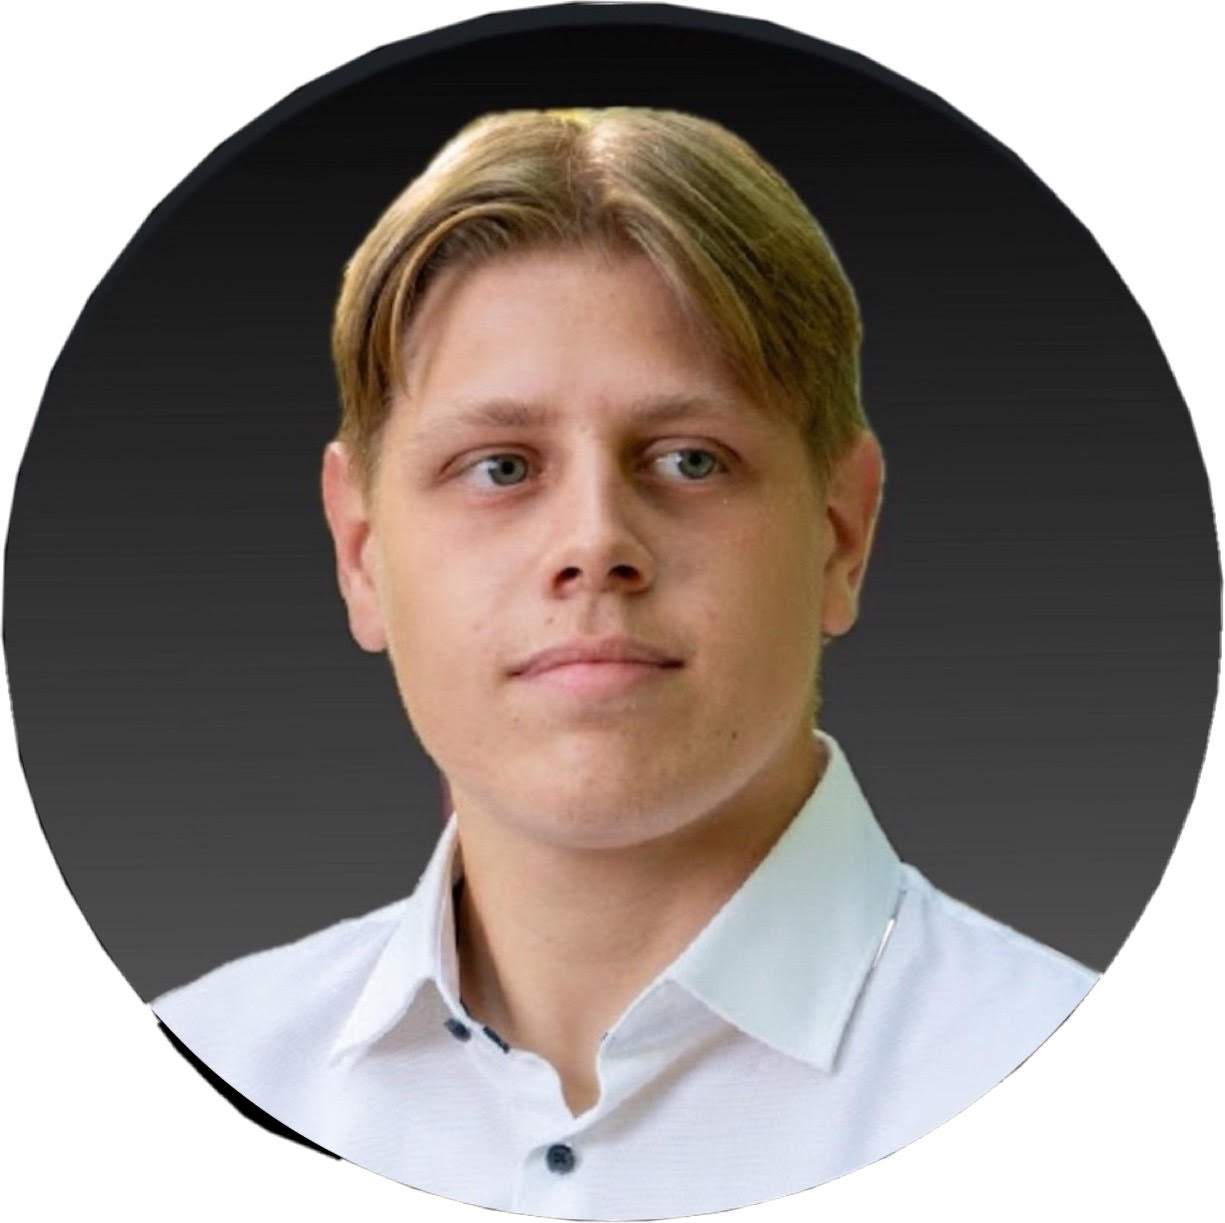
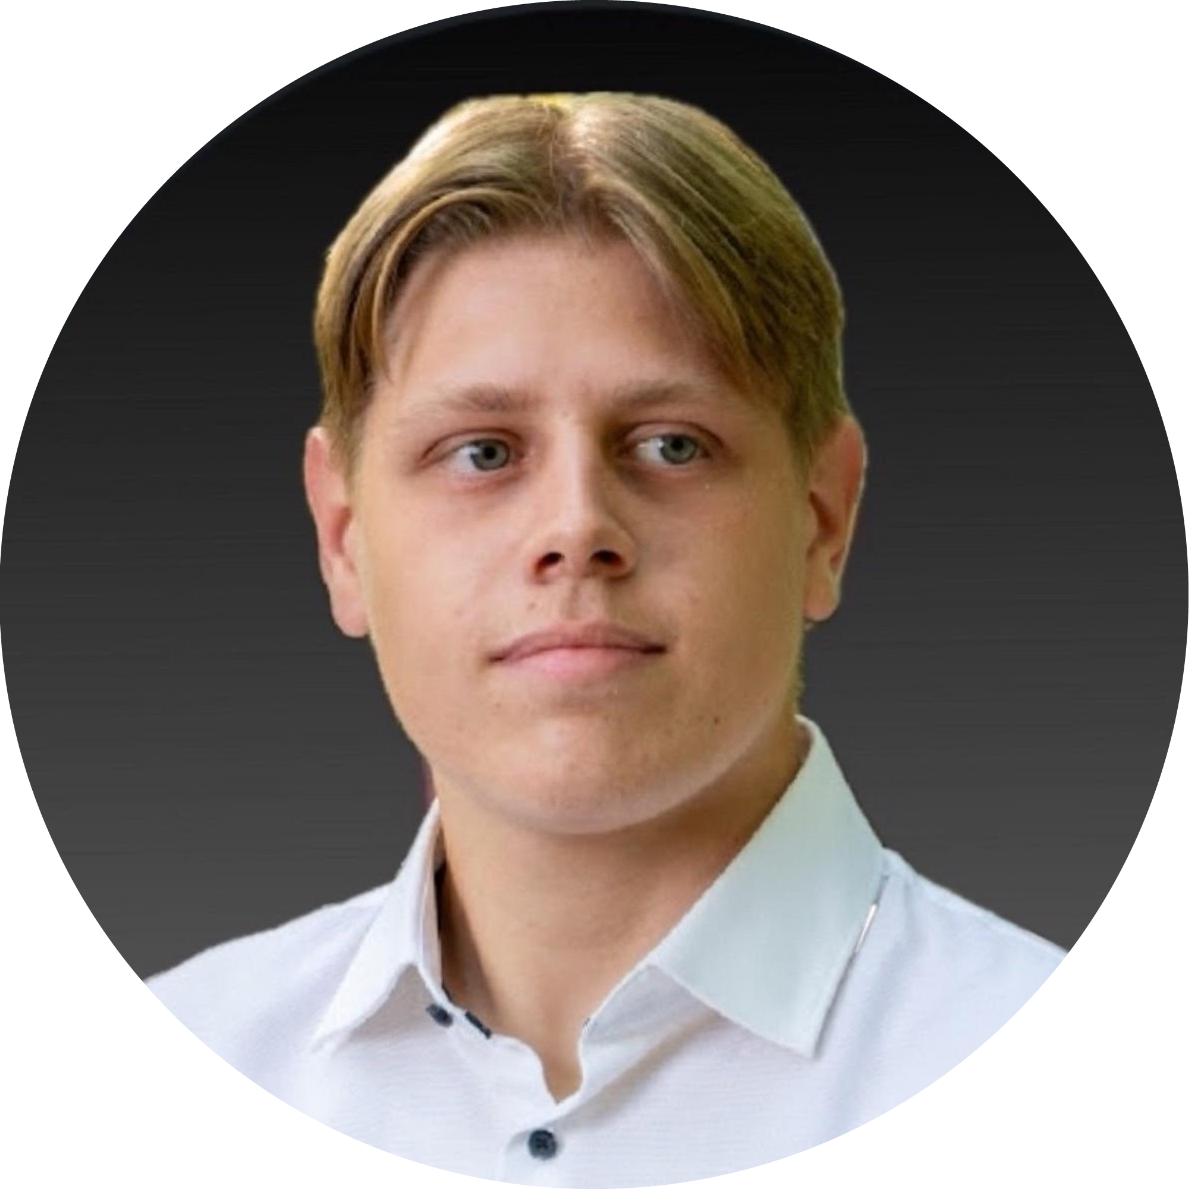
Add files via upload

diff --git a/src/app/views/projects-view/projects-view.component.scss b/src/app/views/projects-view/projects-view.component.scss
@@ -22,13 +22,16 @@
   padding: 40px 20px;
   background: var(--second-color);
   color: #fff;
-  max-width: 480px;
+  max-width: 500px;
   margin: 16px;
   text-align: center;
 }
 
 .box img {
-  height: 120px;
+  height: 170px;
+  width: 280px;
+  border: 3px solid var(--main-color);
+  border-radius: 8%;
 }
 
 .box h1 {
@@ -38,7 +41,7 @@
 
 .box p {
   margin-top: 1.2rem;
-  margin-bottom: 3rem;
+  margin-bottom: 4rem;
   font-size: 1rem;
   font-weight: 300;
 }
@@ -50,9 +53,9 @@
 
 .services-content a {
   position: absolute;
-  bottom: 1.8rem;
+  bottom: 1.75rem;
   left: 115px;
-  padding: 6px 10px;
+  padding: 11px 20px;
   font-size: 0.9rem;
   background: rgb(188, 17, 17);
   color: #fff;

diff --git a/src/index.html b/src/index.html
@@ -2,10 +2,10 @@
 <html lang="en">
 <head>
   <meta charset="utf-8">
-  <title>Nikolay's Site</title>
+  <title>NTodorov.com</title>
   <base href="/">
   <meta name="viewport" content="width=device-width, initial-scale=1">
-  <link rel="icon" type="image/x-icon" href="favicon.ico">
+  <link rel="icon" type="image/x-icon" href="logo.png">
 
   <link rel="preconnect" href="https://fonts.googleapis.com">
   <link rel="preconnect" href="https://fonts.gstatic.com" crossorigin>

diff --git a/src/app/views/skills-view/service-view.component.html b/src/app/views/skills-view/service-view.component.html
@@ -33,7 +33,7 @@
         src="https://upload.wikimedia.org/wikipedia/commons/thumb/9/99/Unofficial_JavaScript_logo_2.svg/1200px-Unofficial_JavaScript_logo_2.svg.png"
         alt=""
       />
-      <h1>JavaScipt</h1>
+      <h1>JavaScript</h1>
       <p>
         Developing interactive features and handle complex client-side logic. My
         experience includes manipulating the DOM, event handling, and

diff --git a/src/app/views/about-view/about-view.component.scss b/src/app/views/about-view/about-view.component.scss
@@ -9,8 +9,7 @@
 }
 
 .about-img{
-    margin-top: 77px;
-    width: 320px;
+    margin-top: 65px;
     height: 500px;
 }
 
@@ -22,7 +21,7 @@
 }
 
 .about-text{
-    margin-top: 105px;
+    margin-top: 80px;
     width: 500px;
     justify-content: center;
 }

diff --git a/src/app/views/home-view/home-view.component.ts b/src/app/views/home-view/home-view.component.ts
@@ -12,6 +12,6 @@ export class HomeViewComponent {
   scrollDown(event: Event){
     event.preventDefault();
 
-    window.scrollBy(0, 840)
+    window.scrollBy(0, 750)
   }
 }

diff --git a/src/app/views/home-view/home-view.component.scss b/src/app/views/home-view/home-view.component.scss
@@ -24,7 +24,6 @@
 }
 
 .home-img{
-    width: 500px;
     height: 500px;
 }
 
